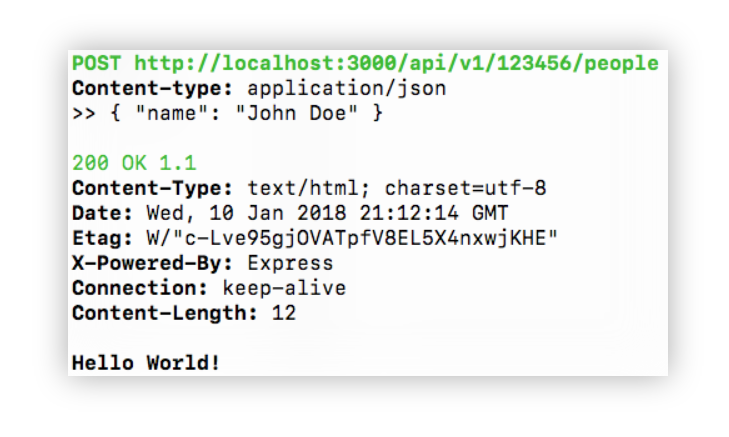
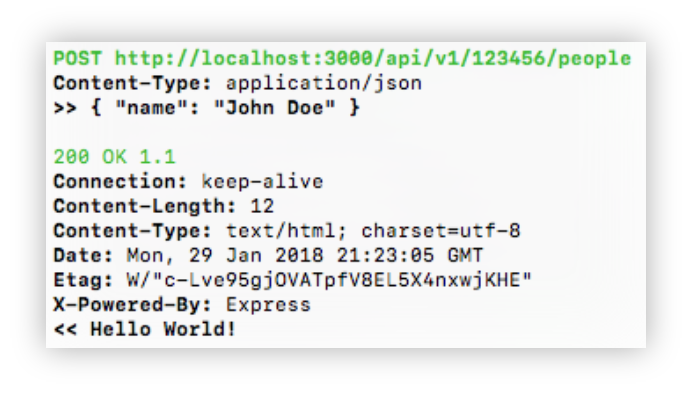
Fix README example request

Changed region(s): [[0.0305, 0.0889, 0.9448, 0.8593]]

diff --git a/README.md b/README.md
@@ -27,8 +27,9 @@ Example command pointing to a test server:
 http \
   -H Content-Type=application/json \
   -X POST \
-  -d "Some test data" \
-  http://localhost:3000/test
+  -d '{ "name": "John Doe" }' \
+  -V companyId=123456 \
+  http://localhost:3000/api/v1/{companyId}/people
 ```
 
 Output:
